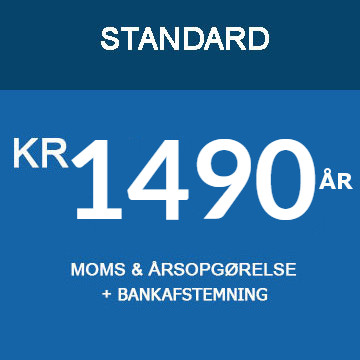
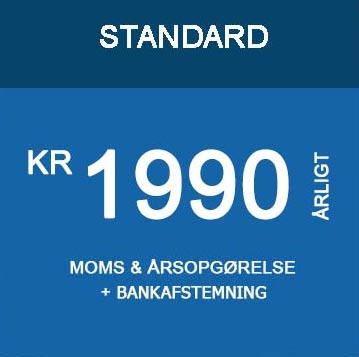
Update of image in contact and pricetag images for homepage

Changed region(s): [[0.0306, 0.3697, 0.9805, 0.6162], [0.1838, 0.7087, 0.8273, 0.8627], [0.2758, 0.0616, 0.766, 0.1541]]

diff --git a/frontend/views/site/parts/home-start-your-free-trial.php b/frontend/views/site/parts/home-start-your-free-trial.php
@@ -17,21 +17,21 @@ use yii\helpers\Html;
           <a href="<?= Url::to(["site/pricing-plans"]); ?>" class="pricing-img" >
           <?= 
             Html::img(
-              Url::to("@web/frontend/assets/images/home/price-light.jpg?v=1.4", true), 
+              Url::to("@web/frontend/assets/images/home/price-light.jpg?v=1.5", true), 
               ["alt" => "Light Bookkeeping", "class" => "img-responsive qtip1", 'title'=>Yii::t('app','If you’re self-employed without a separate company bank account and only have a few monthly receipts and invoices, but still want to keep your books in order. Then this Package is right for you.')]);
           ?>
           </a>
           <a href="<?= Url::to(["site/pricing-plans"]); ?>" class="pricing-img" >
           <?= 
             Html::img(
-              Url::to("@web/frontend/assets/images/home/price-standard.jpg?v=1.4", true), 
+              Url::to("@web/frontend/assets/images/home/price-standard.jpg?v=1.5", true), 
               ["alt" => "Standard Bookkeeping", "class" => "img-responsive mid qtip2", 'title'=>Yii::t('app','Never miss a receipt or tax deduction. This package will pay for itself while giving you peace of mind in the process. Let us do the grunt work (cheaply), and leave only the taxes to your CPA or Tax consultant.')]);
           ?>
           </a>
           <a href="<?= Url::to(["site/pricing-plans"]); ?>" class="pricing-img" >
           <?= 
             Html::img(
-              Url::to("@web/frontend/assets/images/home/price-plus.jpg?v=1.4", true), 
+              Url::to("@web/frontend/assets/images/home/price-plus.jpg?v=1.5", true), 
               ["alt" => "Plus Bookkeeping", "class" => "img-responsive qtip3", 'title'=>Yii::t('app','Why even pay a CPA or Tax Consultant if you don\'t have to. If your books are simple then so is your tax filing. Let us handle it all for just a little extra a month.')]);
           ?>
           </a>

diff --git a/frontend/views/site/contact.php b/frontend/views/site/contact.php
@@ -12,7 +12,7 @@ $this->registerJsFile(
     "depends" => "\\frontend\\assets\\AppAsset"
   ]);
 
-$this->params["top_banner"] = '<img src="' . Url::to("@web/frontend/assets/images/contact.jpg?v=1.2", true) . '" class="document-img img-responsive contact-img" />
+$this->params["top_banner"] = '<img src="' . Url::to("@web/frontend/assets/images/contact.jpg?v=1.4", true) . '" class="document-img img-responsive contact-img" />
 <div class="blue-contact-panel">
     <div class="col-lg-1">
     </div>
